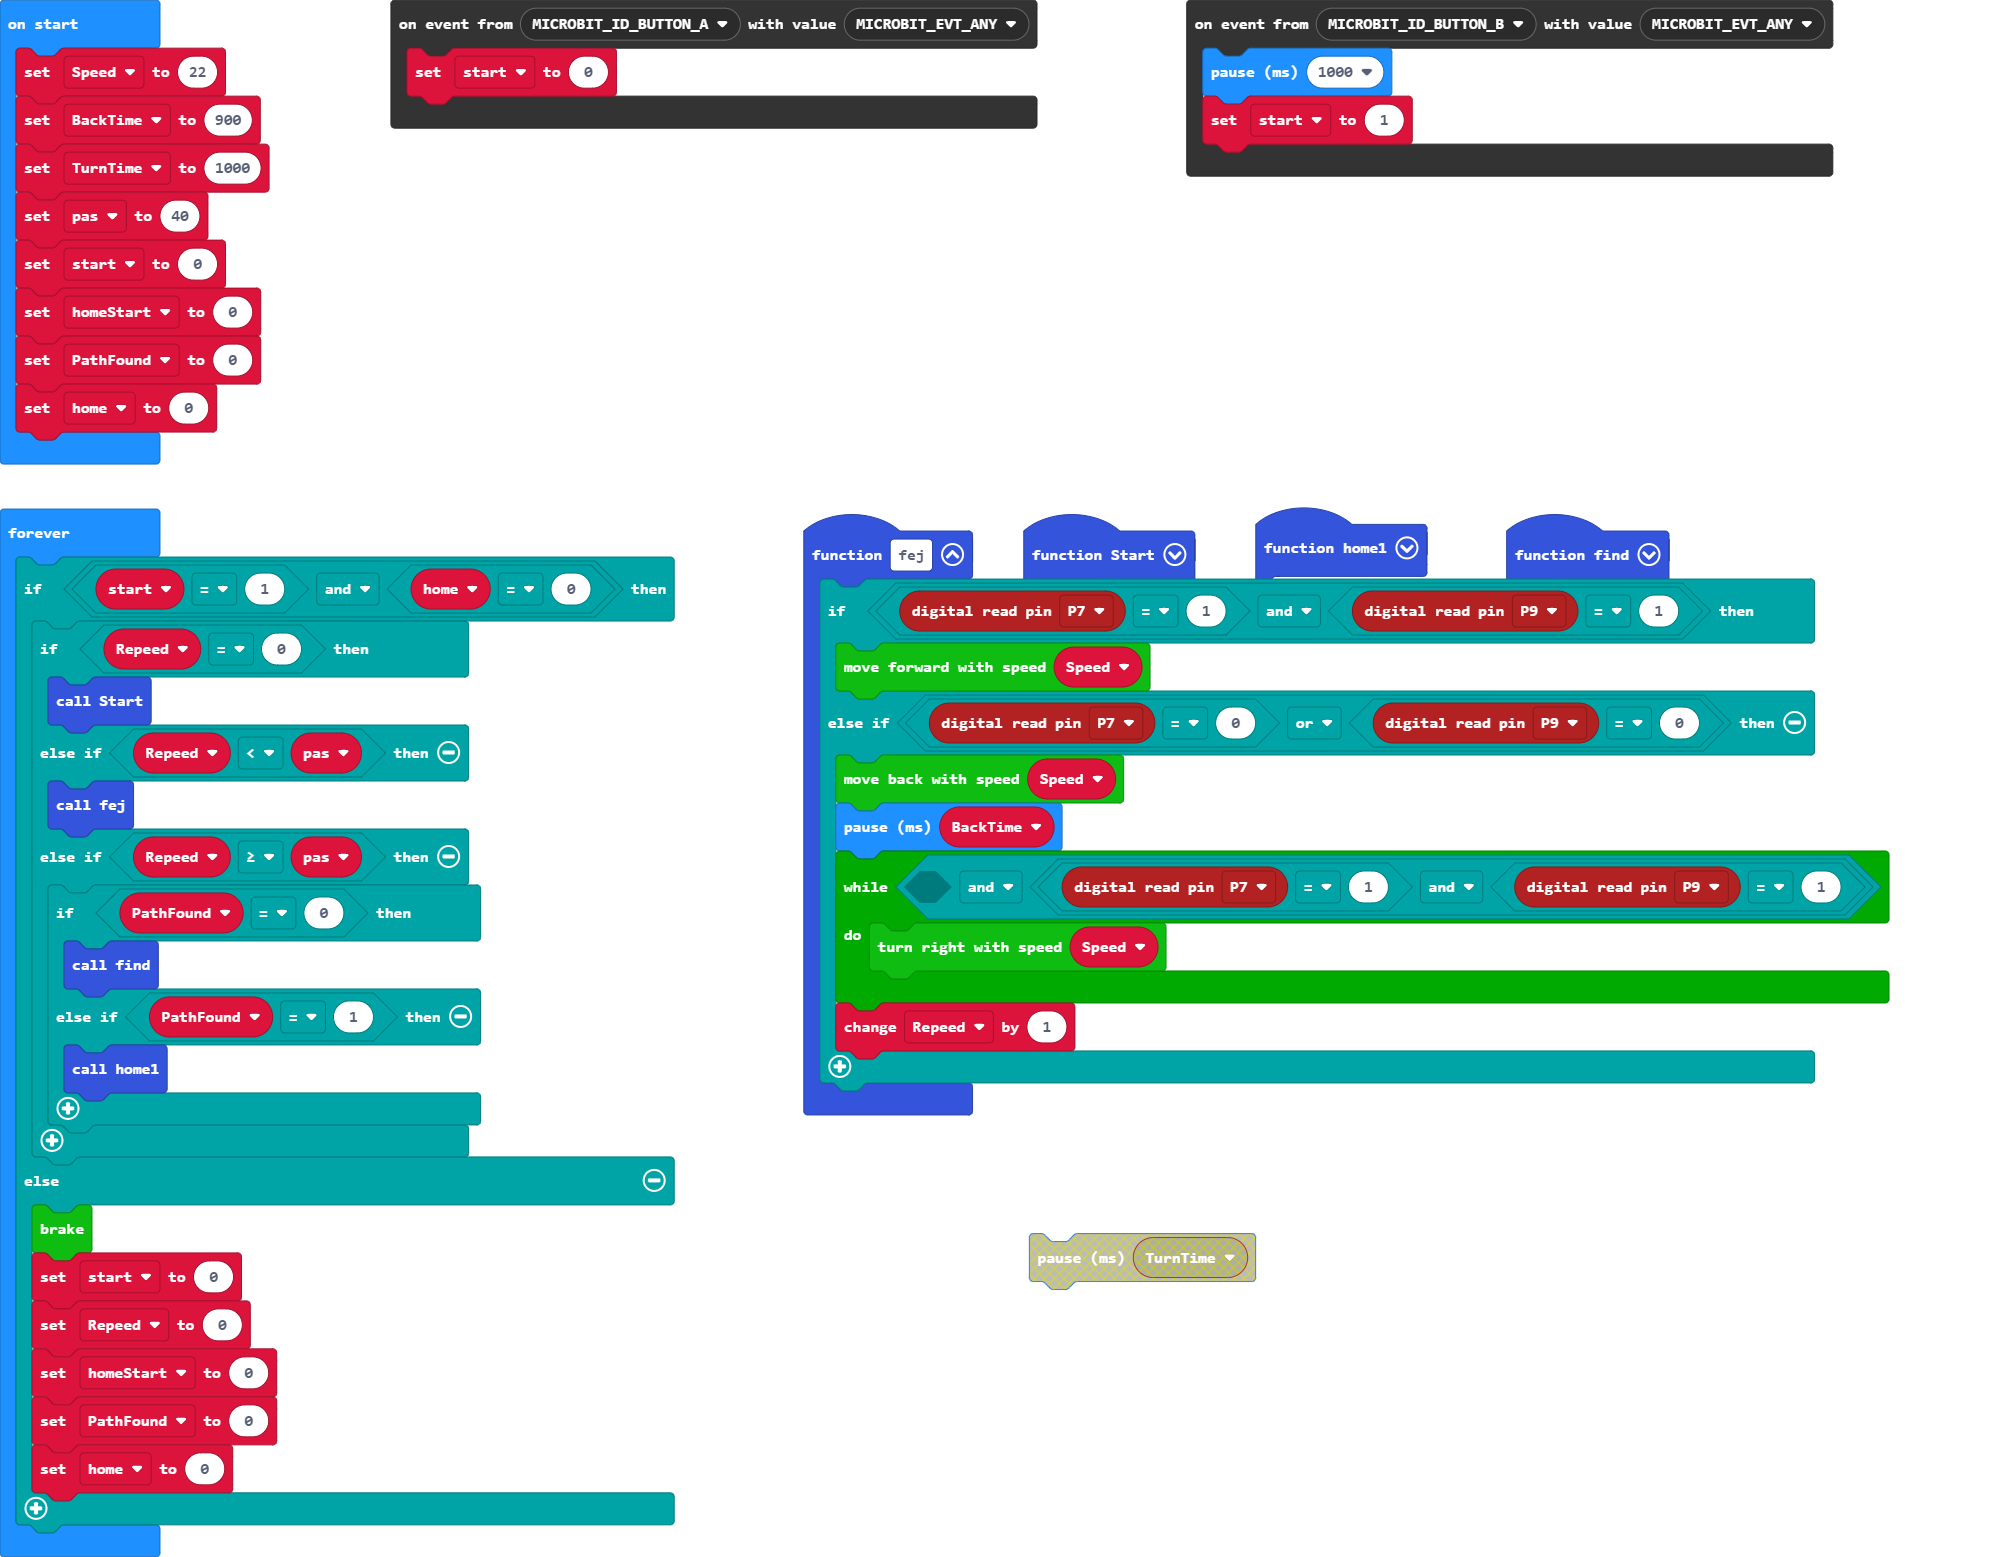
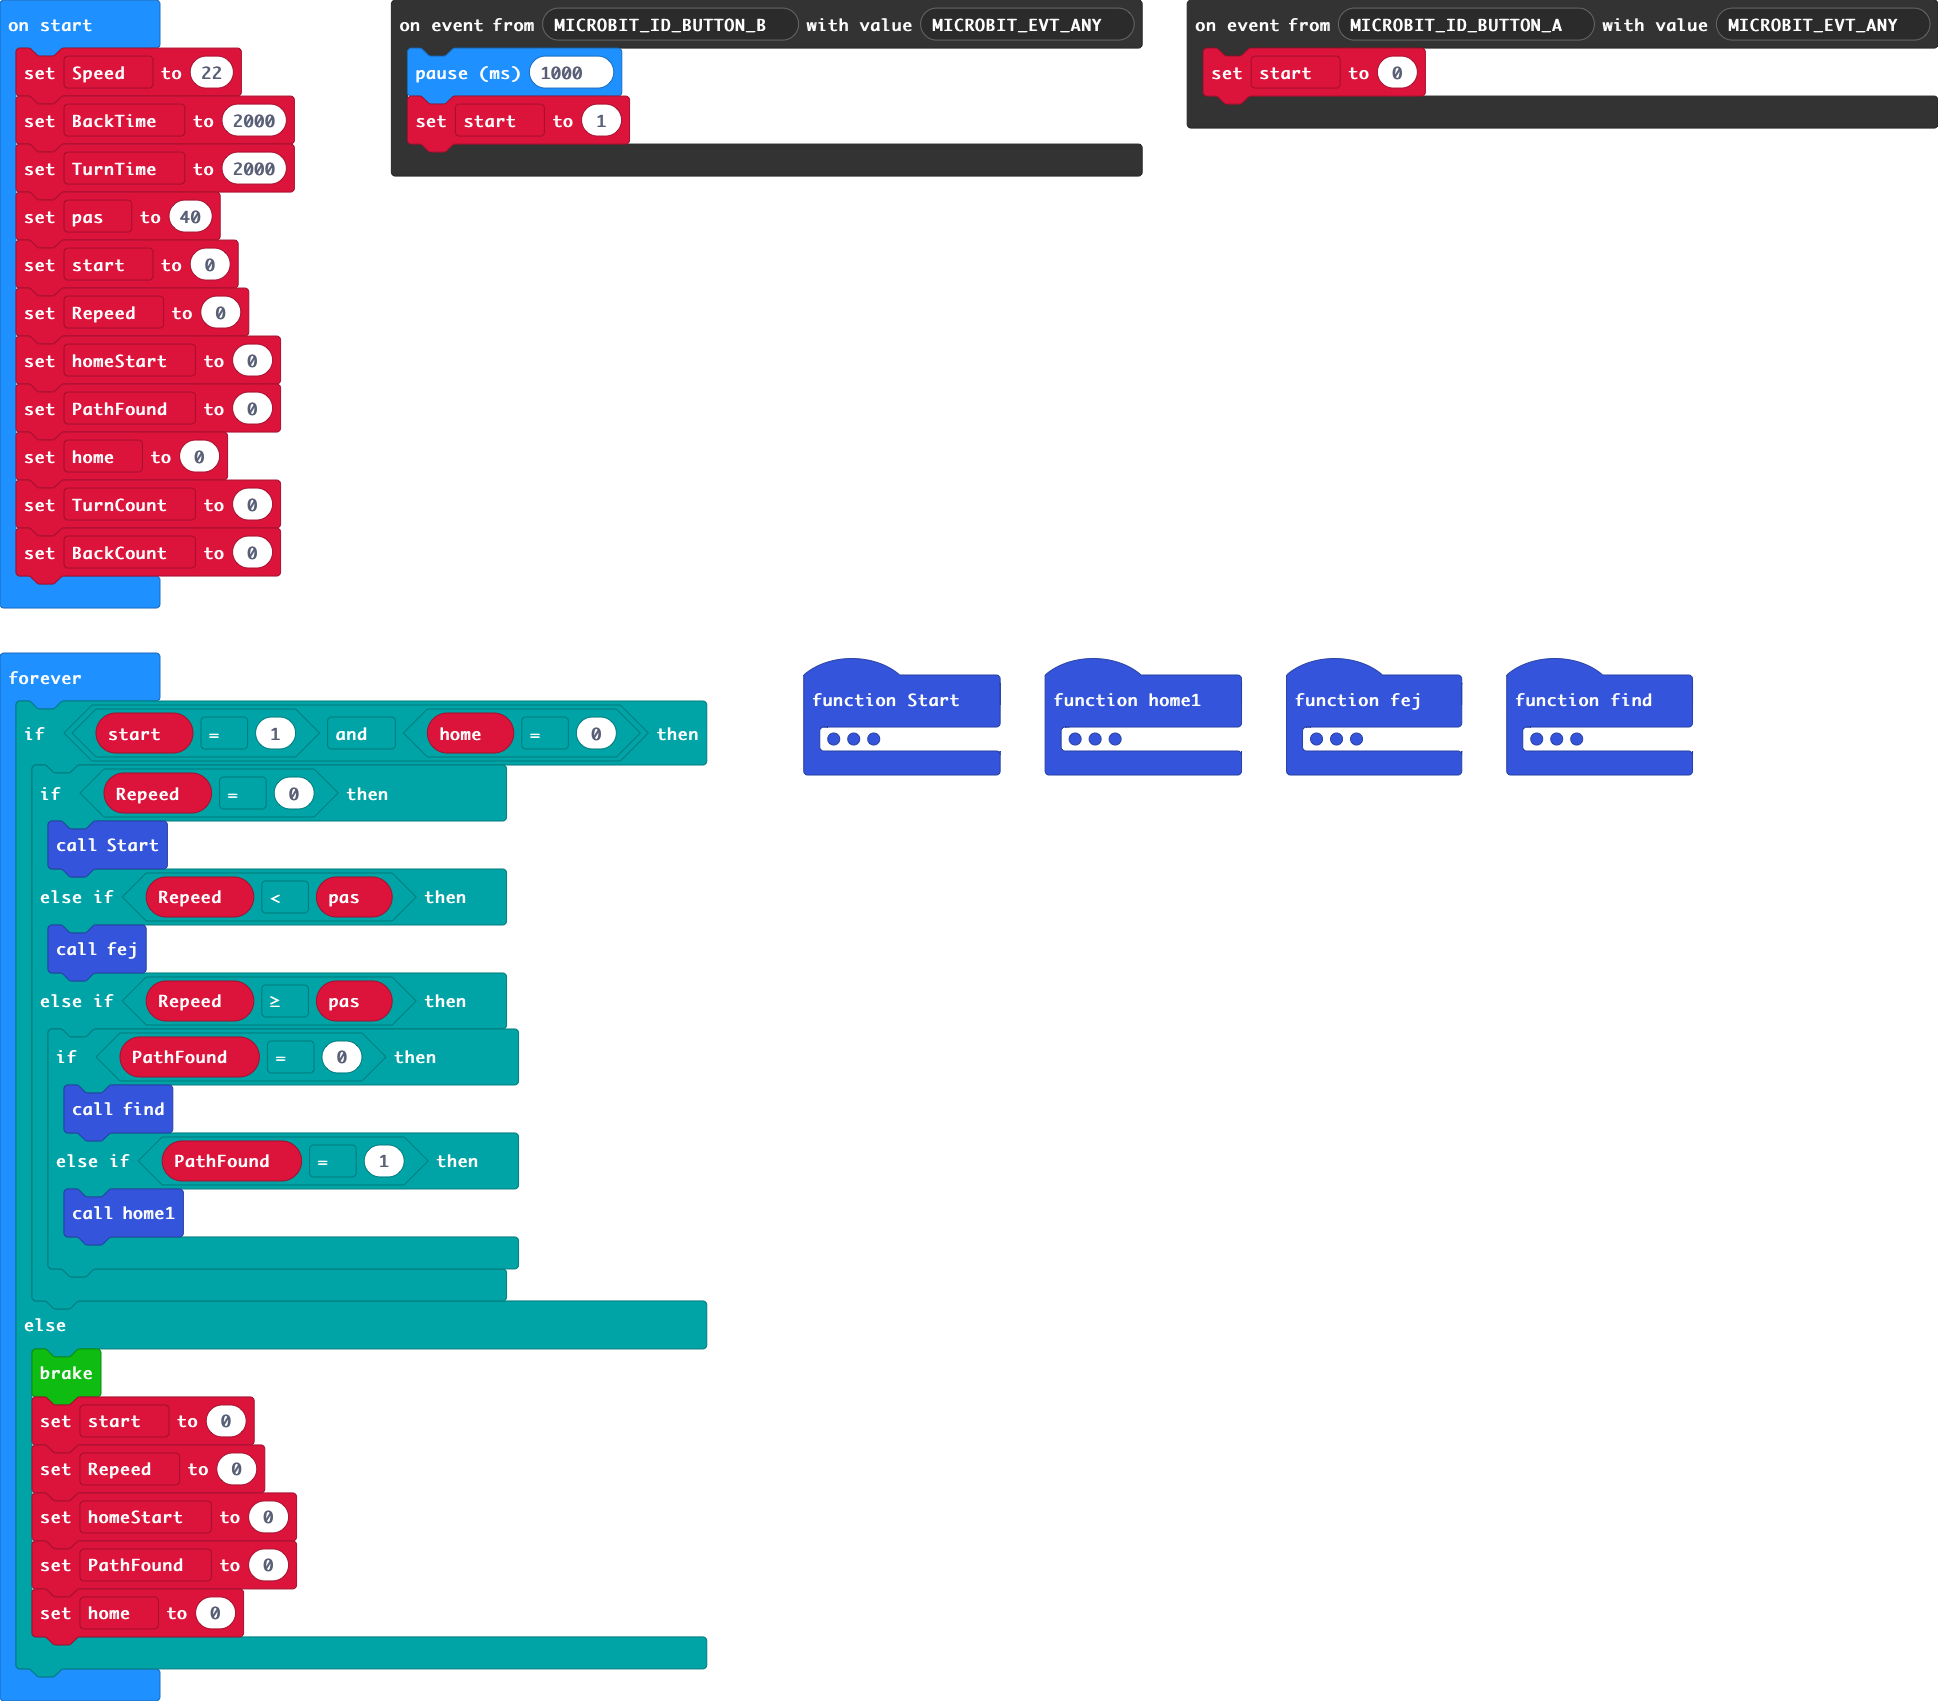
Update main.blocks, main.ts

diff --git a/main.ts b/main.ts
@@ -1,9 +1,15 @@
 function Start () {
-    motorbit.back(Speed)
-    basic.pause(BackTime)
-    motorbit.turnright(Speed)
-    basic.pause(TurnTime)
+    while (BackCount <= BackTime) {
+        motorbit.back(Speed)
+        BackCount += 1
+    }
+    while (TurnCount <= TurnTime) {
+        motorbit.turnright(Speed)
+        TurnCount += 1
+    }
     Repeed += 1
+    TurnCount = 0
+    BackCount = 0
 }
 function find () {
     if (pins.digitalReadPin(DigitalPin.P7) == 1 && pins.digitalReadPin(DigitalPin.P9) == 1) {
@@ -12,15 +18,27 @@ function find () {
         motorbit.brake()
         PathFound = 1
     } else if (pins.digitalReadPin(DigitalPin.P7) == 0 && pins.digitalReadPin(DigitalPin.P9) == 1) {
-        motorbit.back(Speed)
-        basic.pause(BackTime)
-        motorbit.turnright(Speed)
-        basic.pause(TurnTime)
+        while (BackCount <= BackTime) {
+            motorbit.back(Speed)
+            BackCount += 1
+        }
+        while (TurnCount <= TurnTime && (pins.digitalReadPin(DigitalPin.P7) == 1 && pins.digitalReadPin(DigitalPin.P9) == 1)) {
+            motorbit.turnright(Speed)
+            TurnCount += 1
+        }
+        TurnCount = 0
+        BackCount = 0
     } else if (pins.digitalReadPin(DigitalPin.P7) == 0 && pins.digitalReadPin(DigitalPin.P9) == 0) {
-        motorbit.back(Speed)
-        basic.pause(BackTime)
-        motorbit.turnright(Speed)
-        basic.pause(TurnTime)
+        while (BackCount <= BackTime) {
+            motorbit.back(Speed)
+            BackCount += 1
+        }
+        while (TurnCount <= TurnTime && (pins.digitalReadPin(DigitalPin.P7) == 1 && pins.digitalReadPin(DigitalPin.P9) == 1)) {
+            motorbit.turnright(Speed)
+            TurnCount += 1
+        }
+        TurnCount = 0
+        BackCount = 0
     }
 }
 control.onEvent(EventBusSource.MICROBIT_ID_BUTTON_B, EventBusValue.MICROBIT_EVT_ANY, function () {
@@ -57,15 +75,21 @@ function fej () {
     if (pins.digitalReadPin(DigitalPin.P7) == 1 && pins.digitalReadPin(DigitalPin.P9) == 1) {
         motorbit.forward(Speed)
     } else if (pins.digitalReadPin(DigitalPin.P7) == 0 || pins.digitalReadPin(DigitalPin.P9) == 0) {
-        motorbit.back(Speed)
-        basic.pause(BackTime)
-        while (false && (pins.digitalReadPin(DigitalPin.P7) == 1 && pins.digitalReadPin(DigitalPin.P9) == 1)) {
+        while (BackCount <= BackTime) {
+            motorbit.back(Speed)
+            BackCount += 1
+        }
+        while (TurnCount <= TurnTime && (pins.digitalReadPin(DigitalPin.P7) == 1 && pins.digitalReadPin(DigitalPin.P9) == 1)) {
             motorbit.turnright(Speed)
+            TurnCount += 1
         }
         Repeed += 1
+        BackCount = 0
+        TurnCount = 0
     }
 }
-let Repeed = 0
+let BackCount = 0
+let TurnCount = 0
 let home = 0
 let PathFound = 0
 let homeStart = 0
@@ -74,13 +98,16 @@ let TurnTime = 0
 let BackTime = 0
 let Speed = 0
 Speed = 22
-BackTime = 900
-TurnTime = 1000
+BackTime = 2000
+TurnTime = 2000
 let pas = 40
 start = 0
+let Repeed = 0
 homeStart = 0
 PathFound = 0
 home = 0
+TurnCount = 0
+BackCount = 0
 basic.forever(function () {
     if (start == 1 && home == 0) {
         if (Repeed == 0) {
